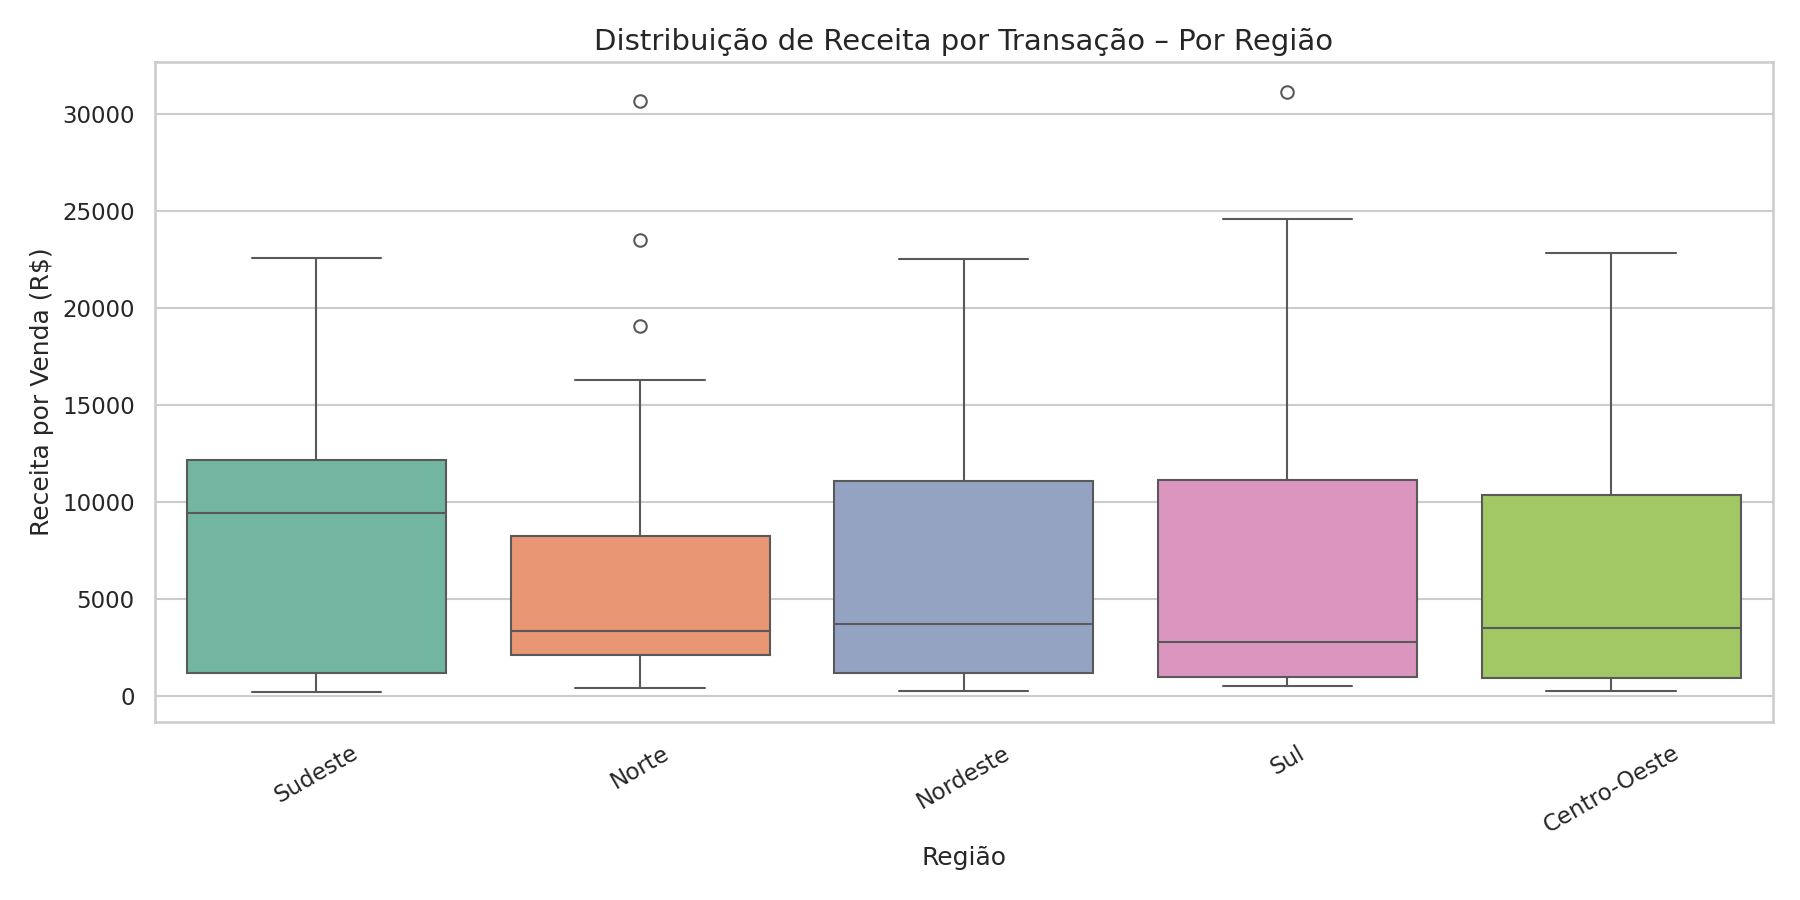
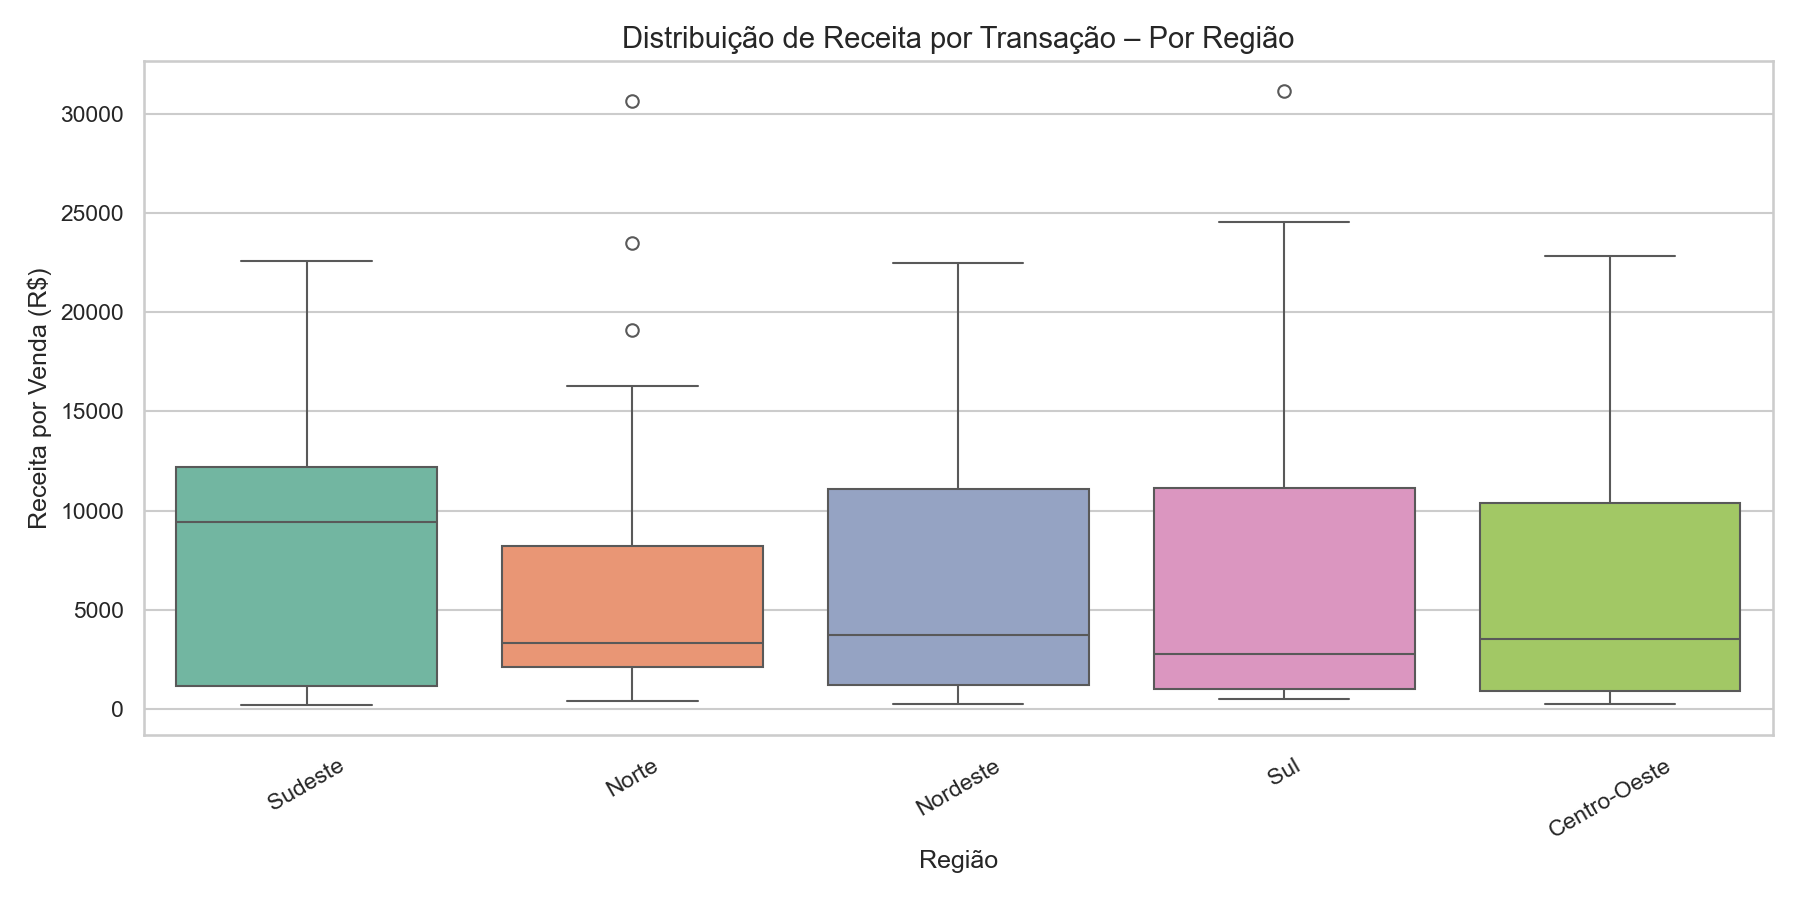
feat: implementa lambda, exportacao CSV JSON, regex e pipeline main

diff --git a/salesinsight.py b/salesinsight.py
@@ -30,7 +30,8 @@ import matplotlib
 matplotlib.use("Agg")
 import matplotlib.pyplot as plt
 import seaborn as sns
-
+import re
+import json
 
 # ==============================================================
 # RF01 – Criar ou Carregar o Dataset de Vendas
@@ -531,3 +532,141 @@ if __name__ == "__main__":
 #  Lambda/ordem superior, CSV/JSON, regex, main
 # =============================================================
 
+# ##############################################################################
+# PARTE DO ADILSON — RF11 a RF14
+# ##############################################################################
+
+# ==============================================================
+# RF11 – Usar Funções Lambda e Funções de Ordem Superior
+# ==============================================================
+
+def processar_coluna(df, coluna, funcao_transformacao):
+    """
+    Aplica uma função de transformação a uma coluna do DataFrame.
+    Demonstra o uso de funções como argumentos (higher-order function /
+    callback).
+    """
+    df[f"{coluna}_transformado"] = df[coluna].apply(funcao_transformacao)
+    print(f"  Coluna '{coluna}_transformado' criada com sucesso.")
+    return df
+
+
+# ==============================================================
+# RF12 – Ler e Escrever Arquivos (CSV e JSON)
+# ==============================================================
+
+def exportar_resultados(metricas, clientes, stats_numpy):
+    """Exporta resultados em CSV e JSON."""
+    os.makedirs("outputs", exist_ok=True)
+
+    # Exportar CSV com métricas por mês
+    caminho_csv = "outputs/metricas_por_mes.csv"
+    metricas["por_mes"].to_csv(caminho_csv, index=False,
+                               encoding="utf-8-sig")
+    print(f"  CSV exportado: {caminho_csv}")
+
+    # Exportar segmentação de clientes em CSV
+    caminho_clientes = "outputs/segmentacao_clientes.csv"
+    clientes.to_csv(caminho_clientes, index=False, encoding="utf-8-sig")
+    print(f"  CSV exportado: {caminho_clientes}")
+
+    # Exportar estatísticas gerais em JSON
+    caminho_json = "outputs/estatisticas_gerais.json"
+    stats_serializaveis = {k: round(float(v), 2) for k, v in
+                           stats_numpy.items()}
+    with open(caminho_json, "w", encoding="utf-8") as f:
+        json.dump(stats_serializaveis, f, indent=4, ensure_ascii=False)
+    print(f"  JSON exportado: {caminho_json}")
+
+    # Ler e exibir o JSON exportado para confirmar
+    with open(caminho_json, "r", encoding="utf-8") as f:
+        dados_lidos = json.load(f)
+    print(f"\n  Conteúdo do JSON exportado:\n  "
+          f"{json.dumps(dados_lidos, indent=2)}")
+
+
+# ==============================================================
+# RF13 – Usar Expressões Regulares para Limpeza de Dados
+# ==============================================================
+
+def limpar_strings_com_regex(df):
+    """
+    Usa expressões regulares para limpeza de colunas de texto.
+    Exemplos: remover caracteres especiais, padronizar formatos.
+    """
+    # 1. Remover caracteres não alfanuméricos do nome do cliente
+    #    (exceto underline e espaço)
+    df["cliente_limpo"] = df["cliente"].apply(
+        lambda s: re.sub(r"[^a-zA-Z0-9_ ]", "", str(s)).strip()
+    )
+
+    # 2. Identificar registros com padrão de ID inválido
+    #    (deve ser "Cliente_XXX")
+    padrao_cliente = re.compile(r"^Cliente_\d{3}$")
+    df["cliente_valido"] = df["cliente_limpo"].apply(
+        lambda s: bool(padrao_cliente.match(s))
+    )
+
+    n_invalidos = (~df["cliente_valido"]).sum()
+    print(f"\n=== LIMPEZA COM REGEX ===")
+    print(f"  Clientes com formato inválido encontrados: {n_invalidos}")
+    print(f"  Amostra de clientes limpos: "
+          f"{df['cliente_limpo'].head(5).tolist()}")
+
+    return df
+
+
+# ==============================================================
+# RF14 – Executar o Pipeline Completo (Ponto de Entrada)
+# ==============================================================
+
+def main():
+    """
+    Função principal: executa o pipeline completo do SalesInsight PY.
+    """
+    print("\n" + "="*60)
+    print("  SALESINSIGHT PY – Pipeline de Análise de Dados de Vendas")
+    print("="*60)
+
+    # Etapa 0: Gerar dataset (se necessário)
+    if not os.path.exists("vendas.csv"):
+        print("\n[INFO] Gerando dataset sintético...")
+        df_gerado = gerar_dataset_vendas(n_registros=200)
+        df_gerado.to_csv("vendas.csv", index=False)
+
+    # Etapa 1 a 6: Pipeline via classe com herança
+    analisador = AnalisadorComProjecao("vendas.csv", meses_projecao=3)
+    (analisador
+        .carregar()
+        .limpar()
+        .transformar()
+        .analisar()
+        .projetar_tendencia()
+        .visualizar()
+        .exportar_relatorio()
+    )
+
+    # Etapa extra: limpeza com regex
+    analisador.df_limpo = limpar_strings_com_regex(analisador.df_limpo)
+
+    # Etapa extra: funções lambda e higher-order function
+    analisador.df_limpo = processar_coluna(
+        analisador.df_limpo, "receita_total", lambda x: round(x / 1000, 2)
+    )
+    analisador.df_limpo = processar_coluna(
+        analisador.df_limpo, "quantidade", lambda x: "Alto" if x > 5 else "Baixo"
+    )
+
+    # Etapa extra: exportação JSON
+    stats = calcular_estatisticas_numpy(analisador.df_limpo)
+    exportar_resultados(analisador.metricas, analisador.clientes, stats)
+
+    # Resumo final
+    analisador.resumo()
+    analisador.exibir_projecao_detalhada()
+
+    print("\n[CONCLUÍDO] Pipeline finalizado com sucesso!")
+
+
+if __name__ == "__main__":
+    main()
